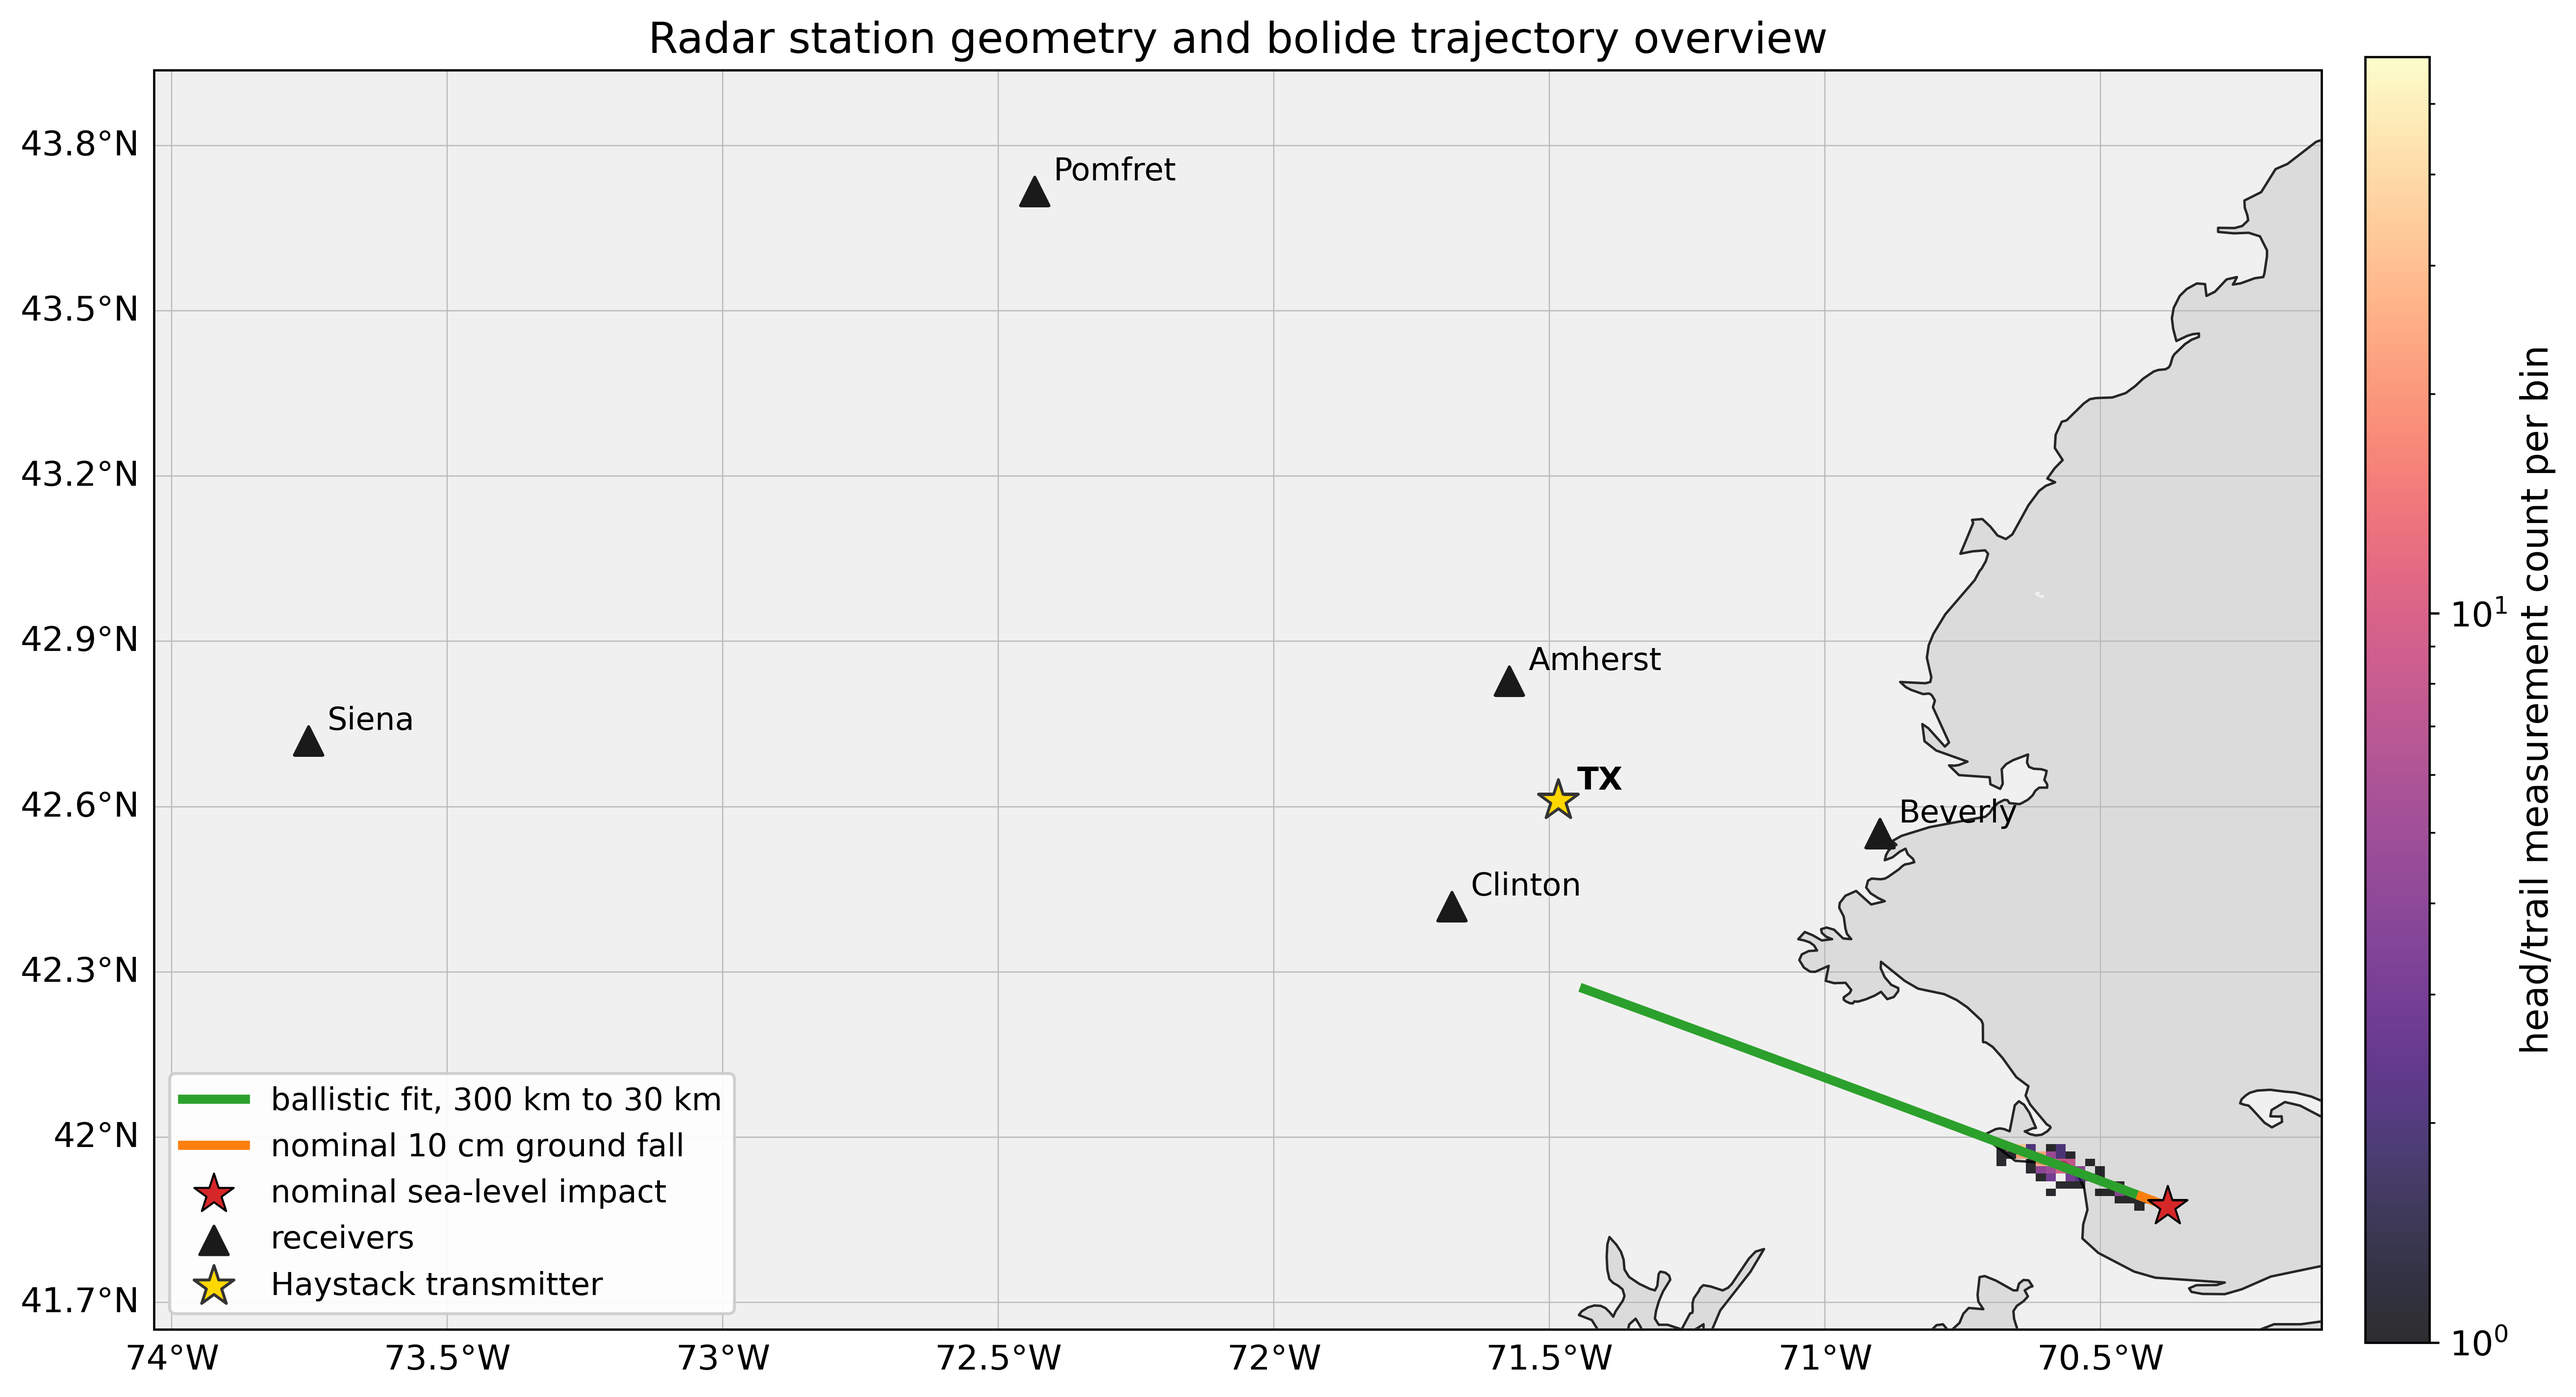
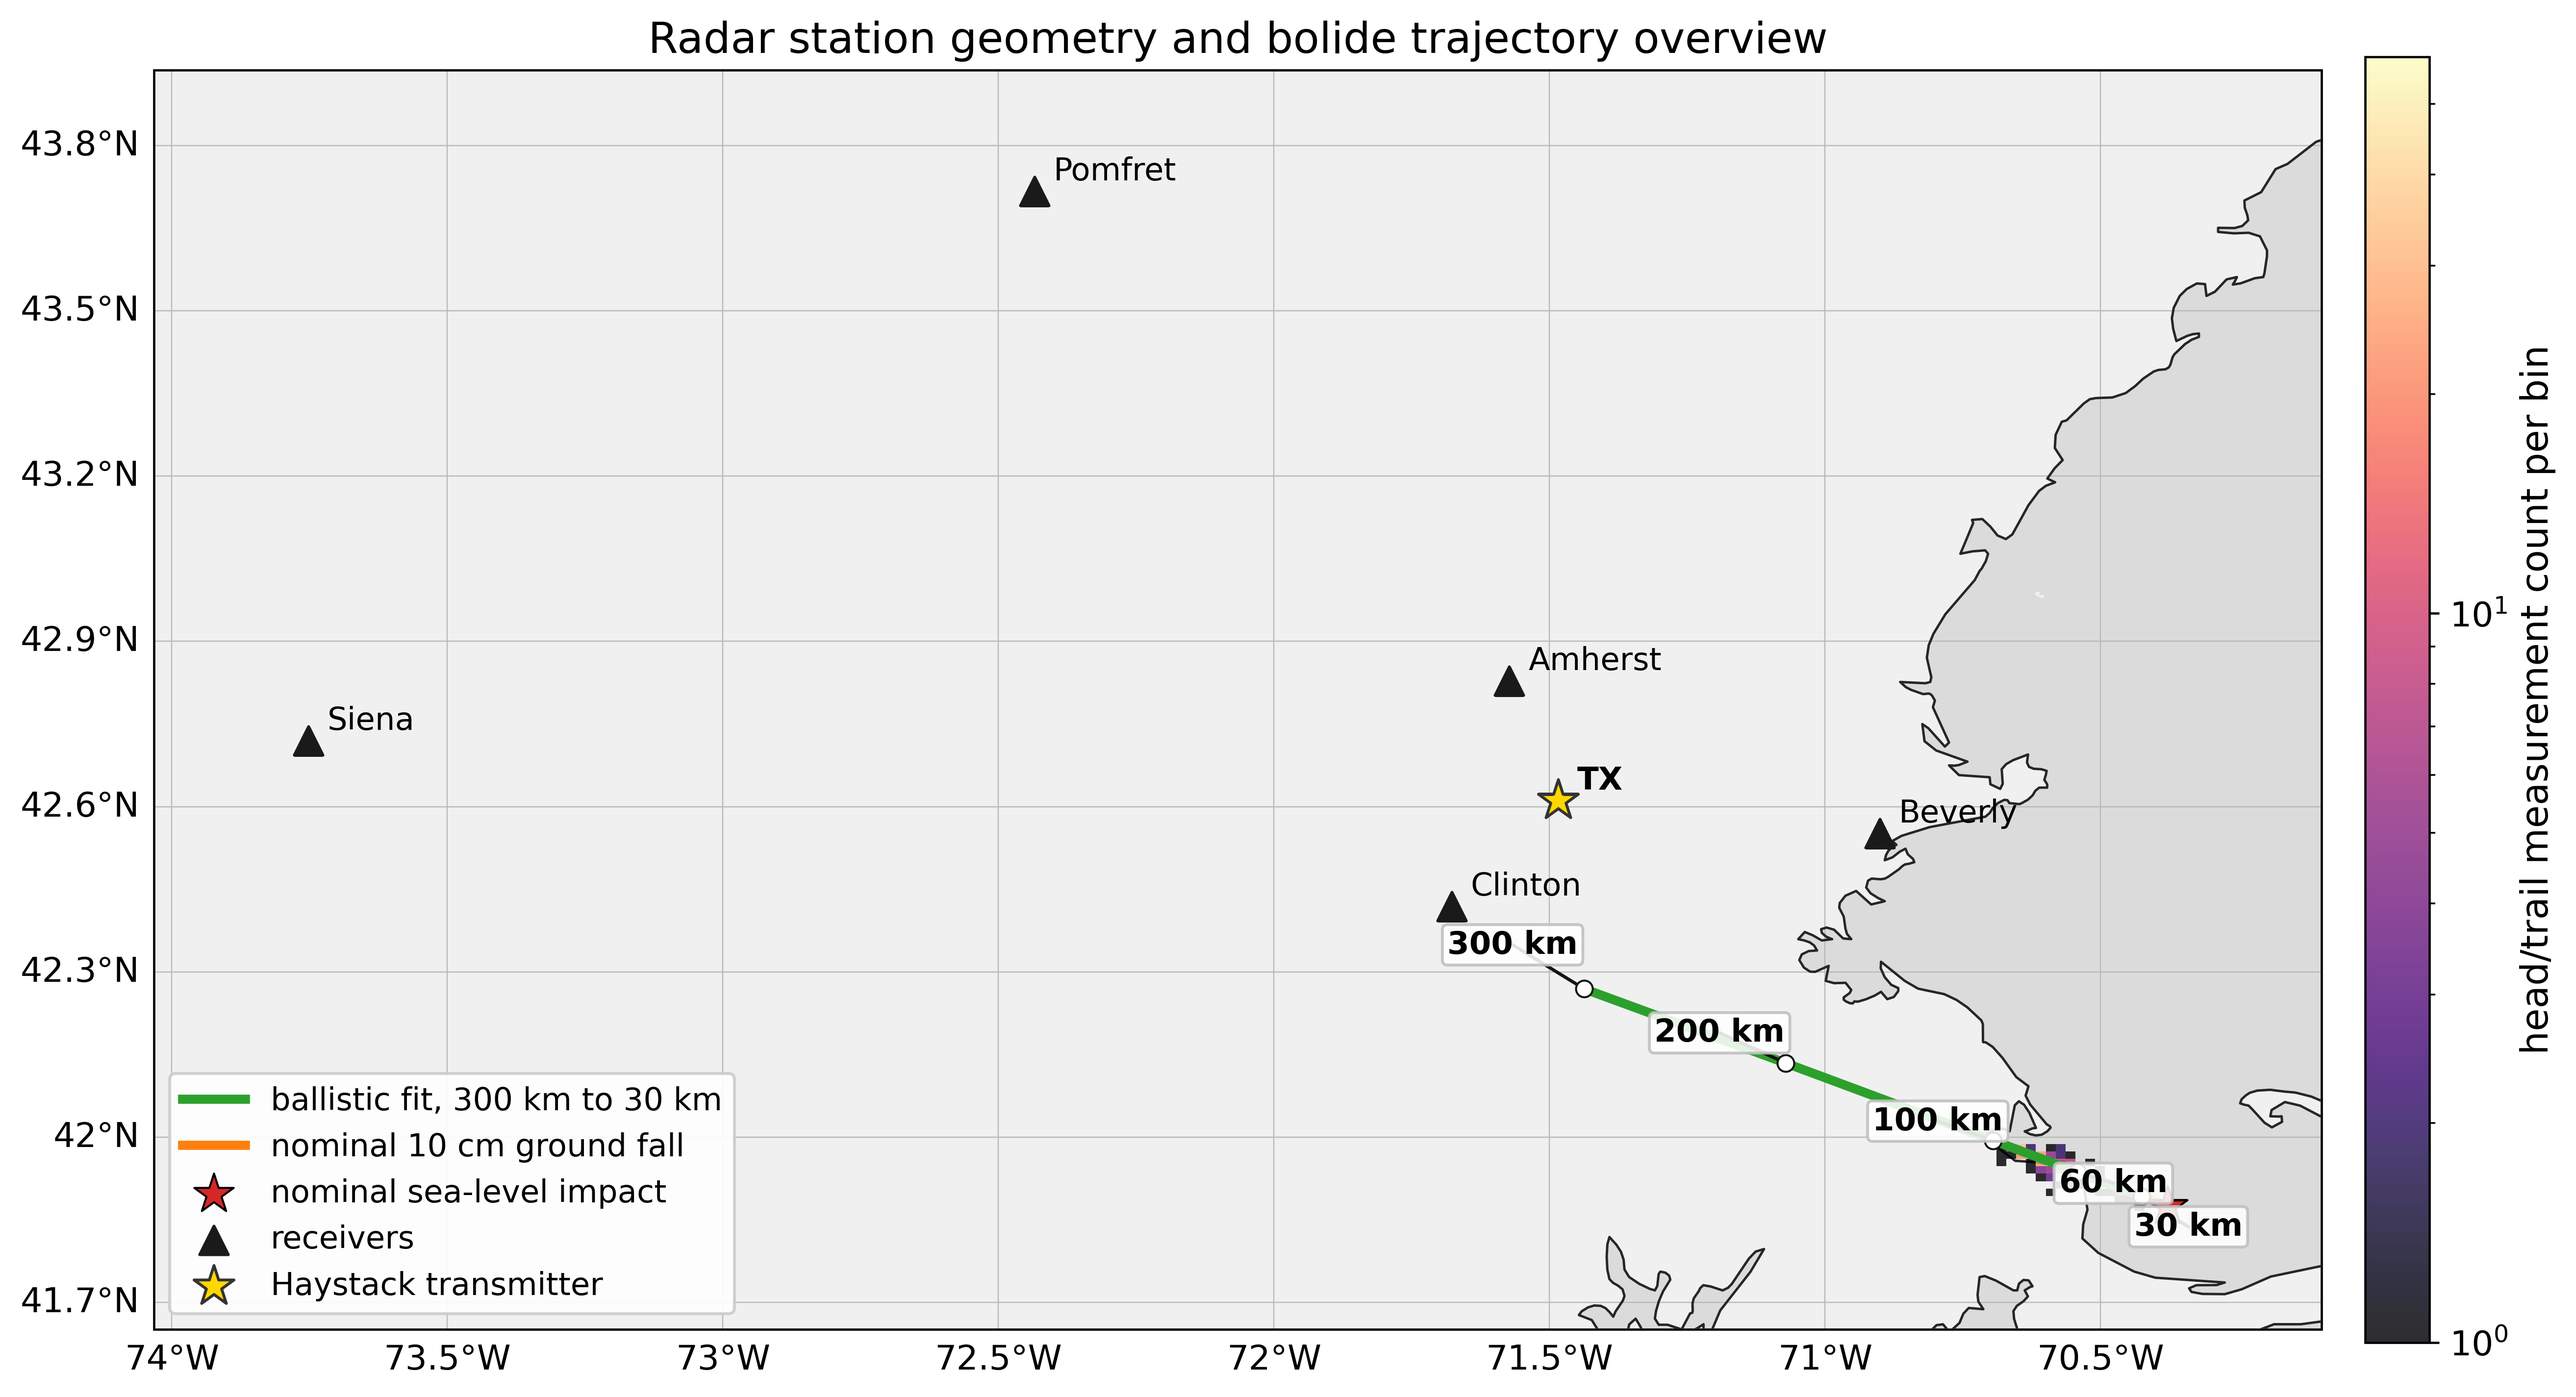
Add altitude callouts to station overview

Changed region(s): [[0.7179, 0.7807, 0.874, 0.9056], [0.5619, 0.6558, 0.6243, 0.7182], [0.6243, 0.7182, 0.6867, 0.7495]]

diff --git a/fit_ballistic_head_trail.py b/fit_ballistic_head_trail.py
@@ -924,6 +924,52 @@ def plot_station_measurement_ballistic_overview(
         zorder=6,
         label="ballistic fit, 300 km to 30 km",
     )
+    alt_label_offsets = {
+        300: (-0.13, 0.08),
+        200: (-0.12, 0.055),
+        100: (-0.10, 0.035),
+        60: (0.065, -0.02),
+        30: (0.085, -0.055),
+    }
+    alt_km = ballistic_llh[:, 2] / 1000.0
+    order = np.argsort(alt_km)
+    for label_km, (dlon, dlat) in alt_label_offsets.items():
+        if label_km < np.nanmin(alt_km) or label_km > np.nanmax(alt_km):
+            continue
+        lat_at_alt = float(np.interp(label_km, alt_km[order], ballistic_llh[order, 0]))
+        lon_at_alt = float(np.interp(label_km, alt_km[order], ballistic_llh[order, 1]))
+        label_lon = lon_at_alt + dlon
+        label_lat = lat_at_alt + dlat
+        ax.plot(
+            [lon_at_alt, label_lon],
+            [lat_at_alt, label_lat],
+            color="0.08",
+            lw=1.15,
+            transform=data_crs,
+            zorder=8,
+        )
+        ax.scatter(
+            lon_at_alt,
+            lat_at_alt,
+            s=34,
+            color="white",
+            edgecolor="0.08",
+            linewidth=0.7,
+            transform=data_crs,
+            zorder=9,
+        )
+        ax.text(
+            label_lon,
+            label_lat,
+            f"{label_km} km",
+            fontsize=11,
+            weight="bold",
+            ha="center",
+            va="center",
+            bbox={"boxstyle": "round,pad=0.16", "facecolor": "white", "edgecolor": "0.75", "alpha": 0.88},
+            transform=data_crs,
+            zorder=10,
+        )
     ax.plot(
         fragment_llh[:, 1],
         fragment_llh[:, 0],
